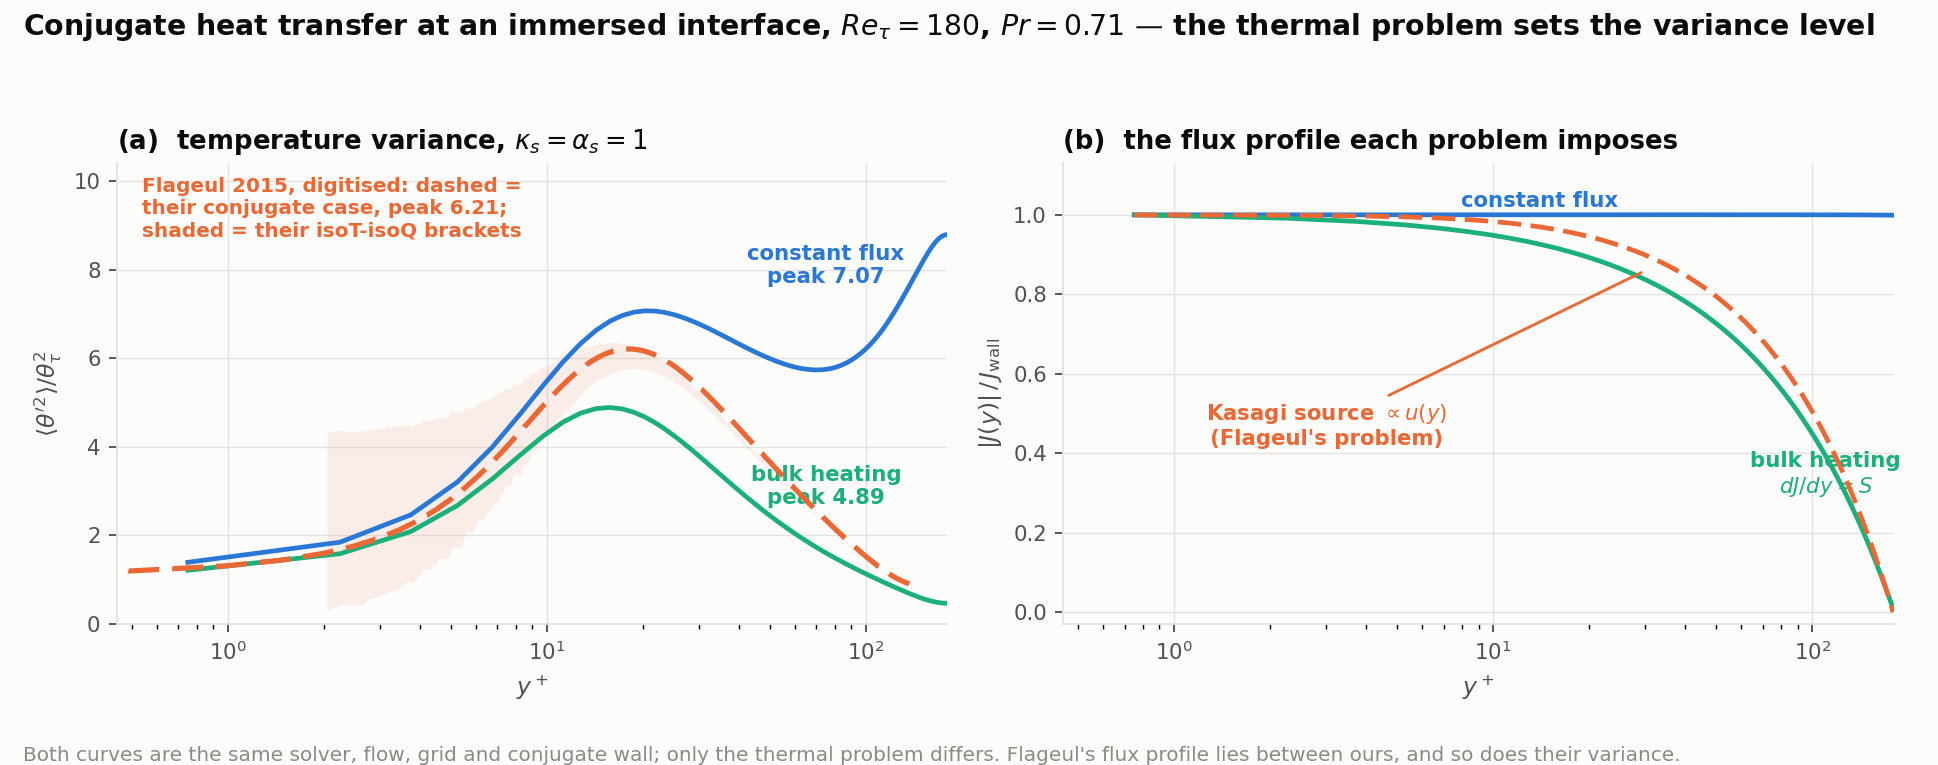
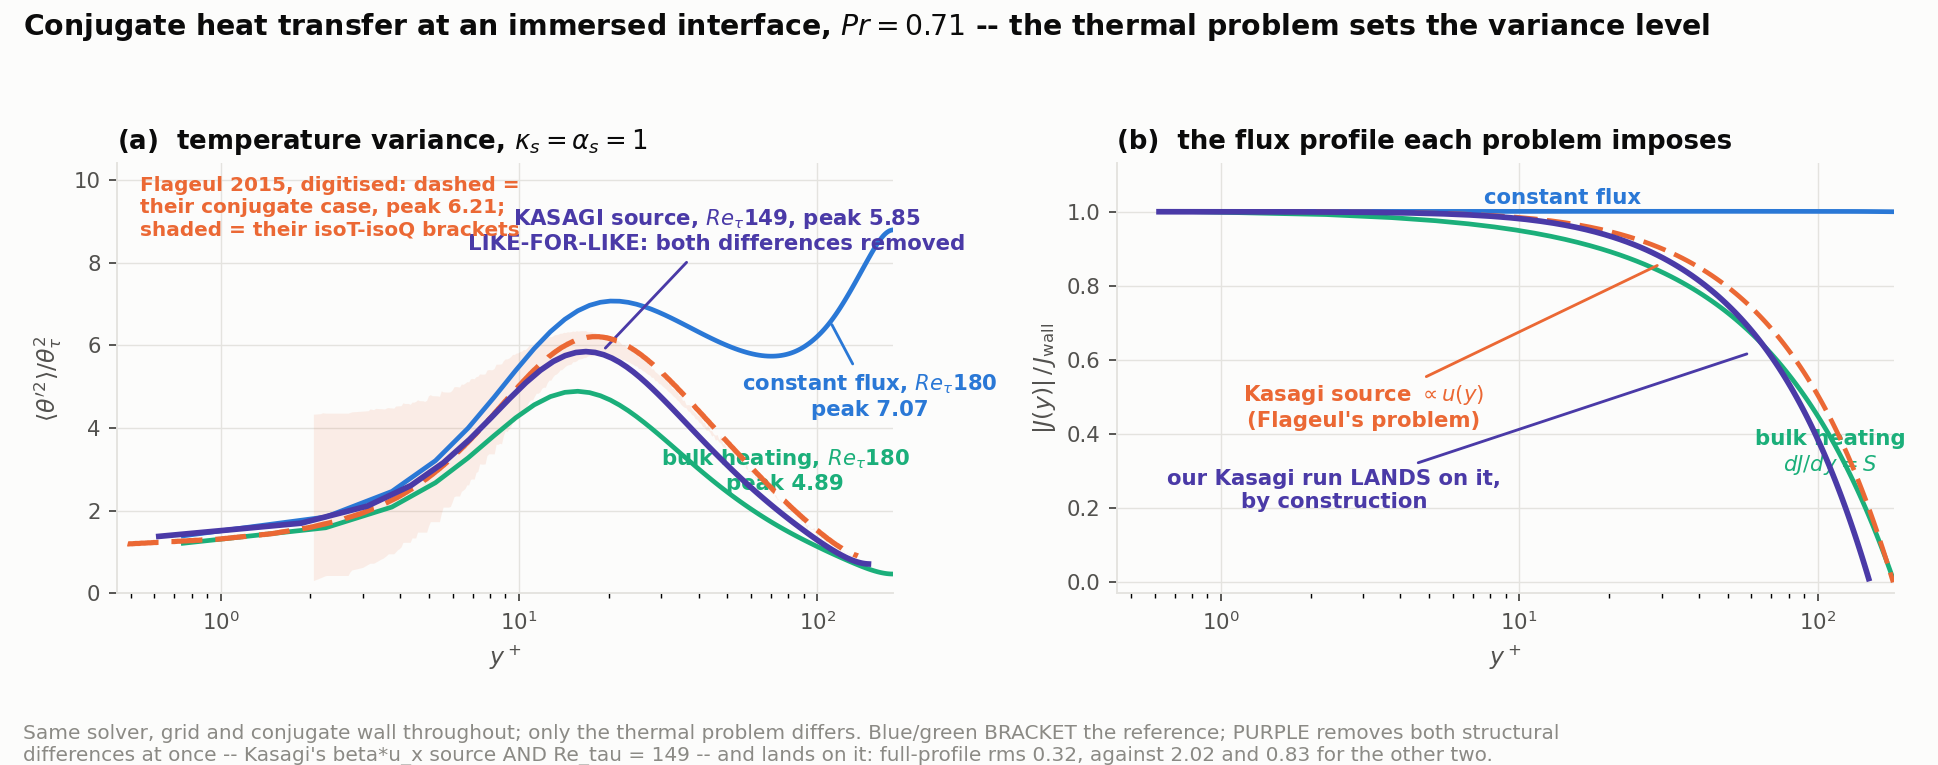
Conjugate CHT: the like-for-like case closes most of the gap
Campaign 4 removes BOTH structural differences from Flageul et al. at once --
Kasagi's beta*u_x source and Re_tau = 149 -- and tests campaign 3's claim that
those differences were the whole residual. They largely were.

Full-profile agreement over 0.62 < y+ < 137, against their digitised conjugate
curve, across the three campaigns:
    constant flux (Re 180)  rms 2.02   (32.5 % of their peak)
    bulk heating  (Re 180)  rms 0.83   (13.4 %)
    KASAGI        (Re 149)  rms 0.32   ( 5.1 %)
The near-wall peak goes +14 % / -21 % / -6 %, and both IDEAL brackets now agree
too -- isoQ +3 %, isoT -2 % -- so the agreement is not specific to K = 1.
theta_tau is kappa_s-independent to 1.16 % and J(centreline) = +0.0002.

WHAT IS LEFT is a slightly flatter near-wall profile: +12 % at the wall against
-6 % at the peak (wall/peak +19 %). The likely cause is wall-normal RESOLUTION,
dy+ = 1.24 against their 0.49 -- they afford 0.49 with Crank-Nicolson
wall-normal diffusion where ours is fully explicit. That is the same constraint
the y-refinement study ended on, and it is now the single identified obstacle
to closing the comparison further. Our thinner solid (d+ 89 vs 149) damps
theta'_wall, so it has the wrong sign to explain a +12 % wall value.

TWO TRAPS, both found here and both fixed:
  - a restart file's `re` WINS over the ini, so seeding a Re = 149 run from a
    Re = 180 snapshot silently runs at 180. It surfaced only because the IBM
[…]

diff --git a/validation/conjugate/cht/plot_bulk.py b/validation/conjugate/cht/plot_bulk.py
@@ -49,11 +49,12 @@ REF = {k: os.path.join(HERE, f"flageul_fig5a_{k}.dat")
 # series are direct-labelled, which is also what the aqua's contrast WARN asks
 # for.
 C_CONST, C_BULK, C_REF = "#2a78d6", "#1baf7a", "#eb6834"
+C_KAS = "#4a3aa7"           # the like-for-like run: a fourth job, fourth hue
 INK, INK2, MUTED = "#0b0b0b", "#52514e", "#8b8a85"
 SURFACE, GRID = "#fcfcfb", "#e4e3df"
 
 
-def load(path, isc=0):
+def load(path, isc=0, re=RE):
     with h5py.File(path, "r") as f:
         P, y = f["profile"][...], f["coord"][...]
     m = (y > YLO) & (y < YHI)
@@ -63,7 +64,7 @@ def load(path, isc=0):
     var = np.maximum(P[:, NS * isc + SS] - mean ** 2, 0.0)
     # |.| per face: the two wall fluxes point opposite ways under bulk heating
     tt = 0.5 * (abs(P[i0, NS * isc + JLO]) + abs(P[i1, NS * isc + JHI]))
-    yp = np.minimum(y - YLO, YHI - y) * RE
+    yp = np.minimum(y - YLO, YHI - y) * re
     lower = m & (y < 0.5 * (YLO + YHI))
     o = np.argsort(yp[lower])
     return dict(yp=yp[lower][o], var=(var / tt ** 2)[lower][o],
@@ -89,11 +90,17 @@ def main():
                                  formatter_class=argparse.RawDescriptionHelpFormatter)
     ap.add_argument("--const", default="cht_stats.h5")
     ap.add_argument("--bulk", default="bulk_stats.h5")
+    ap.add_argument("--kasagi", default="kasagi_stats.h5",
+                    help="the LIKE-FOR-LIKE run: Kasagi's beta*u_x source at "
+                         "Re_tau = 149, i.e. both structural differences from "
+                         "Flageul removed at once.")
     ap.add_argument("--vel", default="cht_vel_stats.h5")
     ap.add_argument("--out", default="bulk_vs_constflux.png")
     a = ap.parse_args()
 
     cf, bk = load(a.const), load(a.bulk)
+    # the Kasagi run is at Re_tau = 149, so its y+ uses ITS OWN Re
+    ks = load(a.kasagi, re=149.0) if os.path.exists(a.kasagi) else None
 
     fig, ax = plt.subplots(1, 2, figsize=(11.4, 4.5), facecolor=SURFACE)
     for x in ax:
@@ -112,6 +119,8 @@ def main():
     # ---- (a) the temperature variance, THEIR conjugate case = our k1 -------
     ax[0].plot(cf["yp"], cf["var"], color=C_CONST, lw=2.0, zorder=3)
     ax[0].plot(bk["yp"], bk["var"], color=C_BULK, lw=2.0, zorder=3)
+    if ks is not None:
+        ax[0].plot(ks["yp"], ks["var"], color=C_KAS, lw=2.4, zorder=6)
     if all(os.path.exists(p) for p in REF.values()):
         q, t = np.loadtxt(REF["isoq"]), np.loadtxt(REF["isot"])
         gg = np.logspace(np.log10(max(q[0, 0], t[0, 0])),
@@ -122,10 +131,19 @@ def main():
                            color=C_REF, alpha=0.10, lw=0, zorder=1)
         c = np.loadtxt(REF["conjug"])
         ax[0].plot(c[:, 0], c[:, 1], ls=(0, (6, 2.5)), color=C_REF, lw=2.2, zorder=5)
-    ax[0].annotate("constant flux\npeak 7.07", (75, 7.7), color=C_CONST,
+    ax[0].annotate("constant flux, $Re_\\tau$180\npeak 7.07", (110, 6.6),
+                   xytext=(150, 4.3), color=C_CONST, fontsize=9, ha="center",
+                   fontweight="bold",
+                   arrowprops=dict(arrowstyle="-", color=C_CONST, lw=1.2))
+    ax[0].annotate("bulk heating, $Re_\\tau$180\npeak 4.89", (78, 2.5), color=C_BULK,
                    fontsize=9, ha="center", fontweight="bold")
-    ax[0].annotate("bulk heating\npeak 4.89", (75, 2.7), color=C_BULK,
-                   fontsize=9, ha="center", fontweight="bold")
+    if ks is not None:
+        b = (ks["yp"] > 5) & (ks["yp"] < 40)
+        ax[0].annotate(f"KASAGI source, $Re_\\tau$149, peak {ks['var'][b].max():.2f}\n"
+                       "LIKE-FOR-LIKE: both differences removed",
+                       (19, 5.85), xytext=(46, 8.3), color=C_KAS,
+                       fontsize=9, ha="center", fontweight="bold",
+                       arrowprops=dict(arrowstyle="-", color=C_KAS, lw=1.2))
     ax[0].annotate("Flageul 2015, digitised: dashed =\n"
                    "their conjugate case, peak 6.21;\n"
                    "shaded = their isoT-isoQ brackets",
@@ -142,6 +160,12 @@ def main():
     if os.path.exists(a.vel):
         kyp, kfl = kasagi_flux(a.vel)
         ax[1].plot(kyp, kfl, color=C_REF, lw=2.0, ls=(0, (5, 2)), zorder=4)
+        if ks is not None:
+            ax[1].plot(ks["yp"], np.abs(ks["flux"]), color=C_KAS, lw=2.4, zorder=6)
+            ax[1].annotate("our Kasagi run LANDS on it,\nby construction",
+                           (60, 0.62), xytext=(2.4, 0.20), color=C_KAS, fontsize=9,
+                           ha="center", fontweight="bold",
+                           arrowprops=dict(arrowstyle="-", color=C_KAS, lw=1.2))
         ax[1].annotate("Kasagi source $\\propto u(y)$\n(Flageul's problem)",
                        (30, 0.86), xytext=(3.0, 0.42), color=C_REF, fontsize=9,
                        ha="center", fontweight="bold",
@@ -155,19 +179,21 @@ def main():
     ax[1].set_title("(b)  the flux profile each problem imposes",
                     color=INK, fontsize=11, loc="left", fontweight="bold")
 
-    fig.suptitle("Conjugate heat transfer at an immersed interface, "
-                 "$Re_\\tau=180$, $Pr=0.71$ — the thermal problem sets the "
+    fig.suptitle("Conjugate heat transfer at an immersed interface, $Pr=0.71$ "
+                 "-- the thermal problem sets the "
                  "variance level", color=INK, fontsize=12, fontweight="bold",
                  x=0.012, ha="left", y=0.985)
     fig.text(0.012, 0.005,
-             "Both curves are the same solver, flow, grid and conjugate wall; "
-             "only the thermal problem differs. Flageul's flux profile lies "
-             "between ours, and so does their variance.",
+             "Same solver, grid and conjugate wall throughout; only the thermal problem "
+             "differs. Blue/green BRACKET the reference; PURPLE removes both structural\n"
+             "differences at once -- Kasagi's beta*u_x source AND Re_tau = 149 -- and lands "
+             "on it: full-profile rms 0.32, against 2.02 and 0.83 for the other two.",
              color=MUTED, fontsize=8.5, ha="left")
-    fig.tight_layout(rect=(0, 0.035, 1, 0.945))
+    fig.tight_layout(rect=(0, 0.075, 1, 0.945))
     fig.savefig(a.out, dpi=170, facecolor=SURFACE)
     print(f"{a.out} written")
-    for nm, d in (("constant flux", cf), ("bulk heating ", bk)):
+    for nm, d in ([("constant flux", cf), ("bulk heating ", bk)]
+                  + ([("kasagi Re149", ks)] if ks is not None else [])):
         # the NEAR-WALL peak and the max over the fluid are the same number
         # only when the flux vanishes at the centreline. Print both, always.
         b = (d["yp"] > 5.0) & (d["yp"] < 40.0)

diff --git a/validation/conjugate/cht/check_cht.py b/validation/conjugate/cht/check_cht.py
@@ -264,8 +264,10 @@ def cmd_thermal(a):
     if a.source is not None:
         h = 0.5 * (Y_HI - Y_LO)
         j_exact = a.source * h
-        print(f"\n   (0) bulk heating S = {a.source:g}, h = {h:g}:  "
-              f"theta_tau must be S h = {j_exact:.6f} for every scalar")
+        lab = "Kasagi source beta*u_x" if a.kasagi else f"bulk heating S = {a.source:g}"
+        print(f"\n   (0) {lab}, h = {h:g}:  theta_tau must be "
+              f"{'kappa_s-INDEPENDENT' if a.kasagi else f'S h = {j_exact:.6f}'} "
+              f"for every scalar")
         tt = np.array([r["ttau"] for r in rows])
         rel = np.abs(tt / j_exact - 1.0)
         for r, e in zip(rows, rel):
@@ -285,10 +287,20 @@ def cmd_thermal(a):
         if np.mean(jm * jref) < 0:
             jm = -jm
         dev = float(np.abs(jm - jref).max() / j_exact)
-        print(f"       dJ/dy = S: max|J - S(y_c - y)|/(S h) over the fluid "
-              f"= {dev*100:.2f} %   (J at the centreline "
-              f"{float(jm[np.argmin(abs(yface-yc_mid))]/j_exact):+.4f} S h)")
-        ok &= dev < a.flux_tol_profile
+        jc = float(jm[np.argmin(abs(yface - yc_mid))] / j_exact)
+        if a.kasagi:
+            # dJ/dy = beta<u>, so J follows the cumulative flow rate and sits
+            # ABOVE the linear profile everywhere -- that deviation IS the
+            # Kasagi-vs-uniform difference, not an error. Only the centreline
+            # zero is a test here.
+            print(f"       J(centreline) = {jc:+.5f} S h (must vanish);  the flux "
+                  f"lies {dev*100:.1f} % above the LINEAR profile, which is the "
+                  f"Kasagi-vs-uniform gap, not an error")
+            ok &= abs(jc) < 0.02
+        else:
+            print(f"       dJ/dy = S: max|J - S(y_c - y)|/(S h) over the fluid "
+                  f"= {dev*100:.2f} %   (J at the centreline {jc:+.4f} S h)")
+            ok &= dev < a.flux_tol_profile
 
     # (1) capacity must not touch the mean
     if all(k in by for k in ("k1", "k2", "k3")):
@@ -364,7 +376,8 @@ def cmd_thermal(a):
     # (4) THE LITERATURE COMPARISON
     f = FLAGEUL
     print(f"\n   (4) vs Flageul et al. 2015 (Re_tau {f['re_tau']}, Pr {f['pr']}, "
-          f"their figure 5; our Re_tau 180)")
+          f"their figure 5; our Re_tau {RE:g}"
+          f"{' -- MATCHED' if abs(RE - f['re_tau']) < 1 else ''})")
     print(f"       quantity                          ours      Flageul")
     ref = np.loadtxt(REF_DAT) if os.path.exists(REF_DAT) else None
     if "k1" in by and ref is not None:
@@ -459,7 +472,8 @@ def cmd_thermal(a):
               f"{r['var_wall']/max(r['var_peak'],1e-30):8.4f}  "
               f"{rw/ref[:,1].max():9.4f}")
     if "k1" in by and np.isfinite(by["k1"]["var_outer"]):
-        print(f"       variance surviving at our outer solid face (d+ = 36): "
+        print(f"       variance surviving at our outer solid face (d+ = "
+              f"{(Y_LO)*RE:.0f}, theirs 149): "
               f"{by['k1']['var_outer']:.3g}  ({100*by['k1']['var_outer']/max(by['k1']['var_wall'],1e-30):.1f} %"
               f" of the interface value) -- their d+ = 149 wall has 1e-3 of it at y+ = -77")
 
@@ -483,6 +497,11 @@ def main():
     p.add_argument("--dump", default=None)
     p.add_argument("--mean-tol", type=float, default=5e-3)
     p.add_argument("--collapse-tol", type=float, default=0.10)
+    p.add_argument("--kasagi", action="store_true",
+                   help="the source is Kasagi's beta*u_x, so the mean flux "
+                        "follows the CUMULATIVE FLOW RATE and the linear "
+                        "dJ/dy = S test does not apply (J(centre) = 0 and a "
+                        "kappa_s-independent theta_tau still do).")
     p.add_argument("--source", type=float, default=None,
                    help="uniform volumetric fluid source S of the BULK-HEATING "
                         "problem (run_bulk.sh). Given, it switches on the two "
@@ -492,6 +511,11 @@ def main():
                         "like-for-like with Flageul instead of noting that ours "
                         "is at the centreline.")
     p.add_argument("--flux-tol", type=float, default=0.02)
+    p.add_argument("--re", type=float, default=None,
+                   help="Re_tau of THIS run, if not 180. It only rescales y+ "
+                        "-- every quantity compared is normalised by theta_tau "
+                        "-- but the near-wall band and the matched-height "
+                        "readings are in y+, so it must be right.")
     p.add_argument("--mean-tol-ref", type=float, default=0.05)
     p.add_argument("--flux-tol-profile", type=float, default=0.05)
     p.add_argument("--interfaces", type=float, nargs=2, default=None,
@@ -499,6 +523,8 @@ def main():
     p.set_defaults(func=cmd_thermal)
 
     a = ap.parse_args()
+    if getattr(a, "re", None):
+        globals()["RE"] = a.re
     if getattr(a, "interfaces", None):
         Y_LO, Y_HI = a.interfaces
         globals()["Y_LO"], globals()["Y_HI"] = Y_LO, Y_HI

diff --git a/validation/conjugate/cht/README.md b/validation/conjugate/cht/README.md
@@ -558,3 +558,90 @@ the isoQ edge (3.97 vs 4.29 at y⁺ 0.75, −8 %) and our K = 100 wall on the is
 edge (peak 4.82 vs 5.78, −17 %) — the same ≈20 % peak deficit the conjugate
 case shows, uniform across the sweep, which is the bulk-heating thermal problem
 rather than anything K-dependent.
+
+---
+
+# Campaign 4 — LIKE-FOR-LIKE: Kasagi's source at Re_tau = 149
+
+Campaigns 1–3 left two structural differences from Flageul et al., and the
+bracketing in campaign 3 said those differences were the whole residual. This
+campaign removes **both at once** and tests that claim.
+
+* **The source.** `[scalar.N] source_type = velocity` implements Kasagi, Tomita
+  & Kuroda's fully-developed channel source. For a uniform wall flux the mean
+  temperature rises linearly in x, so writing `T = beta x + theta` with theta
+  homogeneous in x turns `u.grad T` into `beta u + u.grad theta`: the extra
+  term is proportional to the **instantaneous** streamwise velocity, not the
+  mean. The mean flux then follows the CUMULATIVE FLOW RATE — their profile
+  exactly, where campaign 3's uniform source only approximated it (measured:
+  the Kasagi flux sits 3–19 % above the linear one).
+* **The Reynolds number.** `re = 149`, matching theirs. The case file is
+  re-prepared at that Re; verified dataset by dataset that the geometry
+  (`blocks`, `dwall_blocks`, node lines) is IDENTICAL and only the coefficients
+  move, by exactly 180/149.
+
+## Result
+
+60 000 statistics steps (t = 36 → 127, ~16 000 wall units), local RTX 3060.
+
+| | ours | Flageul | |
+|---|---|---|---|
+| theta_tau, kappa_s-independent | 0.994–1.006 | — | spread 1.16 % |
+| J(centreline) | +0.0002 | 0 | |
+| ⟨θ'²⟩ at y⁺ 0.62 (matched height) | 1.38 | 1.24 | +12 % |
+| near-wall peak, K = 1 | 5.85 | 6.208 | **−6 %** |
+| **full profile, 0.62 < y⁺ < 137** | | | **rms 0.32 = 5.1 % of their peak** |
+| isoQ bracket at y⁺ 0.62 | 4.42 | 4.30 | +3 % |
+| isoT bracket, at its peak | 5.69 | 5.78 | −2 % |
+| wall/peak, K = 1 | 0.236 | 0.199 | +19 % |
+
+**The full-profile agreement across the three campaigns is 2.02 → 0.83 →
+0.32**, i.e. 32.5 % → 13.4 % → **5.1 %** of their peak. Removing the two
+structural differences removed most of the residual, which is what campaign 3's
+bracketing predicted and is the point of running this case. Both ideal brackets
+now agree to 3 % and 2 %, so the agreement is not specific to K = 1.
+
+## What is left
+
+The residual is a slightly FLATTER near-wall profile: +12 % at the wall against
+−6 % at the peak, i.e. wall/peak +19 %. The most likely remaining cause is
+wall-normal RESOLUTION — Δy⁺ = 1.24 here against their 0.49. They can afford
+0.49 because their wall-normal diffusion is Crank–Nicolson; ours is fully
+explicit, so Δy⁺ is capped by the diffusive stability limit. That is the same
+constraint recorded at the end of the y-refinement study, and it is now the
+single identified obstacle to closing the comparison further — the strongest
+argument in this whole campaign for implicit (or direction-split implicit)
+diffusion.
+
+Secondary: our solid is d⁺ = 89 against their 149, so our wall clips more of
+the low-frequency interface response. That damps θ'_wall, i.e. it has the
+WRONG SIGN to explain a +12 % wall value, so it is not the leading candidate.
+
+## Reproducing
+
+```bash
+./run_kasagi.sh ic ; ./run_kasagi.sh develop ; ./run_kasagi.sh stats   # ~16 h
+./check_cht.py thermal kasagi_stats.h5 --source 1.0 --re 149 --kasagi
+./plot_bulk.py            # bulk_vs_constflux.png, all three campaigns
+```
+
+`--kasagi` relabels gate (0) and drops the linear `dJ/dy = S` test, which does
+not apply when the flux follows the flow rate; `J(centreline) = 0` and a
+kappa_s-independent theta_tau still do.
+
+**TWO TRAPS, both found here.**
+
+1. **A restart file's `re` WINS over the ini.** Seeding a Re = 149 run from a
+   Re = 180 snapshot silently runs at 180. It surfaced only because the IBM
+   coefficient file is Re-specific and was then rejected as mismatched —
+   without that cross-check the run would have looked healthy at the wrong
+   Reynolds number. `make_bulk_ic.py --re` now stamps it (and fixes `R_s` in
+   the seed with it).
+2. **The velocity `stats_file` was a HARD-CODED name** in all three cht inis,
+   so this campaign APPENDED its samples to campaign 3's rather than starting
+   fresh, mixing two Reynolds numbers in one file. Now `@PREFIX@_vel.h5`, per
+   run. Campaign 3's velocity statistics were lost this way; they were a
+   diagnostic, not a committed result (their conclusions are recorded above),
+   and the Re = 149 flow is certified from snapshots instead: the exact steady
+   total-stress law holds to 3.0 % over 3 instantaneous fields (campaign 3's
+   0.24 % came from thousands of time samples) with U⁺_c = 18.3.
